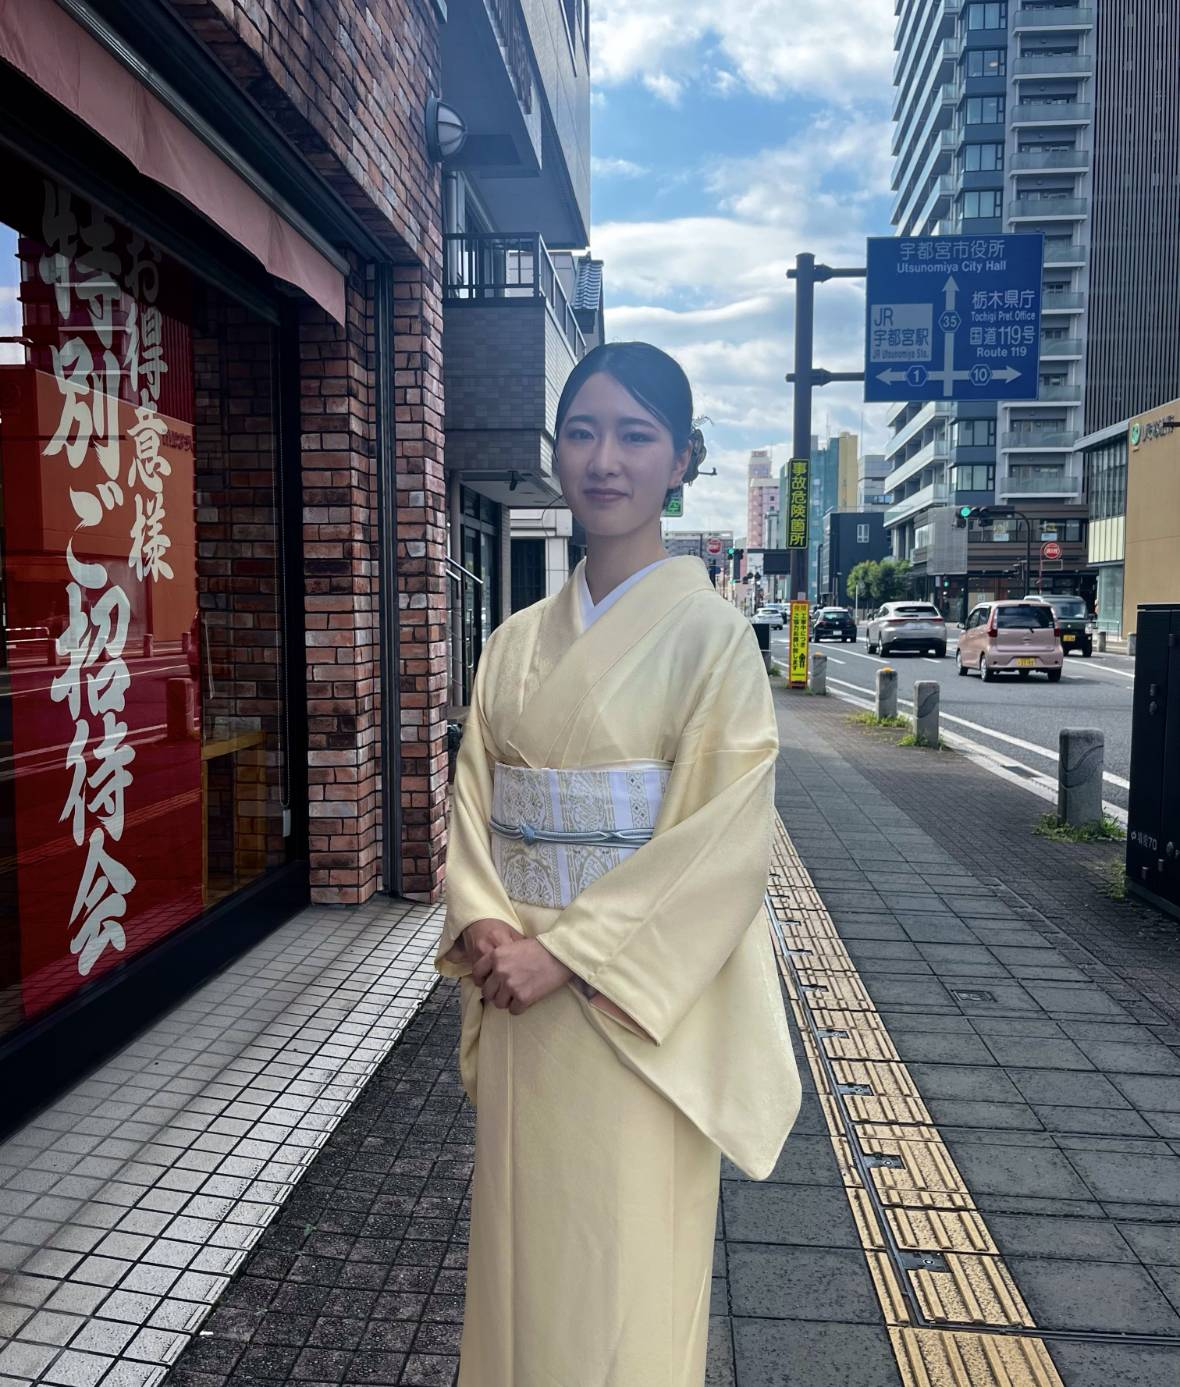
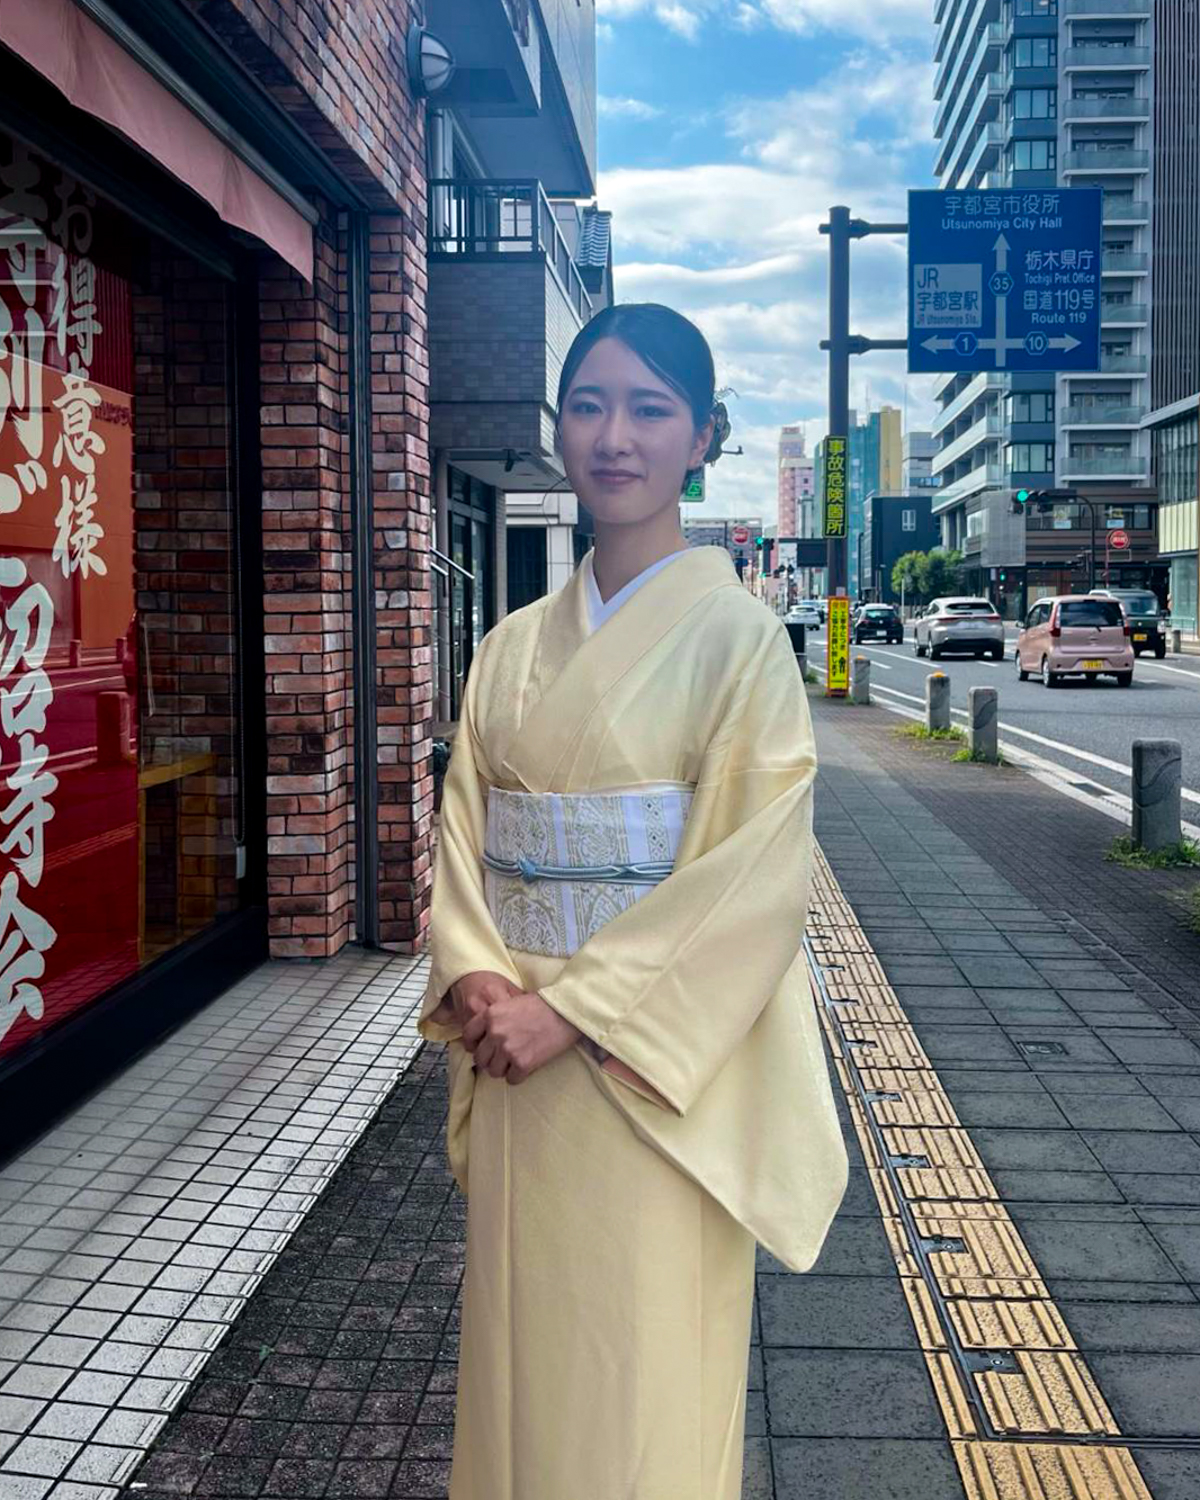
サイト写真を修正済み画像へ差し替え

diff --git a/index.html b/index.html
@@ -95,7 +95,7 @@
     <section id="top" class="hero-section relative h-screen min-h-[600px] flex items-center justify-center overflow-hidden">
         <!-- Background Image -->
         <div class="absolute inset-0 z-0">
-            <img src="images/hero.jpg"
+            <img src="images/hero.jpg?v=260619photo"
                  alt="着物姿で楽しむ寺﨑きもの着付け教室の生徒たち" class="w-full h-full object-cover opacity-80">
             <div class="absolute inset-0 hero-gradient"></div>
             <!-- 和風装飾 -->
@@ -205,7 +205,7 @@
                 <div class="flex flex-col md:flex-row">
                     <!-- Photo Column -->
                     <div class="md:w-5/12 relative h-96 md:h-auto">
-                        <img src="images/teacher-main.jpg"
+                        <img src="images/teacher-main.jpg?v=260619photo"
                              alt="寺﨑今日子先生"
                              class="absolute inset-0 w-full h-full object-cover object-top">
                     </div>
@@ -288,7 +288,7 @@
                 <div class="flex flex-col md:flex-row">
                     <!-- Photo Column -->
                     <div class="md:w-4/12 relative h-80 md:h-auto">
-                        <img src="images/teacher-asuka.jpg"
+                        <img src="images/teacher-asuka.jpg?v=260619photo"
                              alt="明日香先生"
                              class="absolute inset-0 w-full h-full object-cover object-top">
                     </div>
@@ -484,7 +484,7 @@
                     <!-- Image Column -->
                     <div class="order-2 md:order-1">
                         <div class="aspect-[4/3] rounded-lg overflow-hidden">
-                            <img src="images/odekake.jpg" alt="着物でお出かけ会の様子" class="w-full h-full object-cover">
+                            <img src="images/odekake.jpg?v=260619photo" alt="着物でお出かけ会の様子" class="w-full h-full object-cover">
                         </div>
                     </div>
                     
@@ -586,22 +586,22 @@
             
             <div class="grid grid-cols-2 md:grid-cols-3 lg:grid-cols-6 gap-4 max-w-6xl mx-auto">
                 <div class="aspect-[4/5] relative overflow-hidden group cursor-pointer rounded-lg">
-                    <img src="images/collection-1.jpg" alt="赤い着物の着付けコレクション" loading="lazy" class="w-full h-full object-cover group-hover:scale-105 transition-transform duration-300">
+                    <img src="images/collection-1.jpg?v=260619photo" alt="赤い着物の着付けコレクション" loading="lazy" class="w-full h-full object-cover group-hover:scale-105 transition-transform duration-300">
                 </div>
                 <div class="aspect-[4/5] relative overflow-hidden group cursor-pointer rounded-lg">
-                    <img src="images/collection-2.jpg" alt="淡い色の着物の着付けコレクション" loading="lazy" class="w-full h-full object-cover group-hover:scale-105 transition-transform duration-300">
+                    <img src="images/collection-2.jpg?v=260619photo" alt="淡い色の着物の着付けコレクション" loading="lazy" class="w-full h-full object-cover group-hover:scale-105 transition-transform duration-300">
                 </div>
                 <div class="aspect-[4/5] relative overflow-hidden group cursor-pointer rounded-lg">
-                    <img src="images/collection-3.jpg" alt="帯結びが見える着付けコレクション" loading="lazy" class="w-full h-full object-cover group-hover:scale-105 transition-transform duration-300">
+                    <img src="images/collection-3.jpg?v=260619photo" alt="帯結びが見える着付けコレクション" loading="lazy" class="w-full h-full object-cover group-hover:scale-105 transition-transform duration-300">
                 </div>
                 <div class="aspect-[4/5] relative overflow-hidden group cursor-pointer rounded-lg">
-                    <img src="images/collection-4.jpg" alt="華やかな着物姿のコレクション" loading="lazy" class="w-full h-full object-cover group-hover:scale-105 transition-transform duration-300">
+                    <img src="images/collection-4.jpg?v=260619photo" alt="華やかな着物姿のコレクション" loading="lazy" class="w-full h-full object-cover group-hover:scale-105 transition-transform duration-300">
                 </div>
                 <div class="aspect-[4/5] relative overflow-hidden group cursor-pointer rounded-lg">
-                    <img src="images/collection-5.jpg" alt="着付け後の立ち姿コレクション" loading="lazy" class="w-full h-full object-cover group-hover:scale-105 transition-transform duration-300">
+                    <img src="images/collection-5.jpg?v=260619photo" alt="着付け後の立ち姿コレクション" loading="lazy" class="w-full h-full object-cover group-hover:scale-105 transition-transform duration-300">
                 </div>
                 <div class="aspect-[4/5] relative overflow-hidden group cursor-pointer rounded-lg">
-                    <img src="images/collection-6.jpg" alt="きもの姿の集合コレクション" loading="lazy" class="w-full h-full object-cover group-hover:scale-105 transition-transform duration-300">
+                    <img src="images/collection-6.jpg?v=260619photo" alt="きもの姿の集合コレクション" loading="lazy" class="w-full h-full object-cover group-hover:scale-105 transition-transform duration-300">
                 </div>
             </div>
         </div>
@@ -637,28 +637,28 @@
             
             <div class="grid grid-cols-2 md:grid-cols-4 gap-2 max-w-4xl mx-auto">
                 <a href="https://www.instagram.com/kyoko_kimono_time/" target="_blank" rel="noopener noreferrer" class="aspect-square relative overflow-hidden group cursor-pointer">
-                    <img src="images/insta-1.jpg" alt="Instagram投稿写真 1" loading="lazy" class="w-full h-full object-cover group-hover:scale-105 transition-transform duration-300">
+                    <img src="images/insta-1.jpg?v=260619photo" alt="Instagram投稿写真 1" loading="lazy" class="w-full h-full object-cover group-hover:scale-105 transition-transform duration-300">
                 </a>
                 <a href="https://www.instagram.com/kyoko_kimono_time/" target="_blank" rel="noopener noreferrer" class="aspect-square relative overflow-hidden group cursor-pointer">
-                    <img src="images/insta-2.jpg" alt="Instagram投稿写真 2" loading="lazy" class="w-full h-full object-cover group-hover:scale-105 transition-transform duration-300">
+                    <img src="images/insta-2.jpg?v=260619photo" alt="Instagram投稿写真 2" loading="lazy" class="w-full h-full object-cover group-hover:scale-105 transition-transform duration-300">
                 </a>
                 <a href="https://www.instagram.com/kyoko_kimono_time/" target="_blank" rel="noopener noreferrer" class="aspect-square relative overflow-hidden group cursor-pointer">
-                    <img src="images/insta-3.jpg" alt="Instagram投稿写真 3" loading="lazy" class="w-full h-full object-cover group-hover:scale-105 transition-transform duration-300">
+                    <img src="images/insta-3.jpg?v=260619photo" alt="Instagram投稿写真 3" loading="lazy" class="w-full h-full object-cover group-hover:scale-105 transition-transform duration-300">
                 </a>
                 <a href="https://www.instagram.com/kyoko_kimono_time/" target="_blank" rel="noopener noreferrer" class="aspect-square relative overflow-hidden group cursor-pointer">
-                    <img src="images/insta-4.jpg" alt="Instagram投稿写真 4" loading="lazy" class="w-full h-full object-cover group-hover:scale-105 transition-transform duration-300">
+                    <img src="images/insta-4.jpg?v=260619photo" alt="Instagram投稿写真 4" loading="lazy" class="w-full h-full object-cover group-hover:scale-105 transition-transform duration-300">
                 </a>
                 <a href="https://www.instagram.com/kyoko_kimono_time/" target="_blank" rel="noopener noreferrer" class="aspect-square relative overflow-hidden group cursor-pointer">
-                    <img src="images/insta-5.jpg" alt="Instagram投稿写真 5" loading="lazy" class="w-full h-full object-cover group-hover:scale-105 transition-transform duration-300">
+                    <img src="images/insta-5.jpg?v=260619photo" alt="Instagram投稿写真 5" loading="lazy" class="w-full h-full object-cover group-hover:scale-105 transition-transform duration-300">
                 </a>
                 <a href="https://www.instagram.com/kyoko_kimono_time/" target="_blank" rel="noopener noreferrer" class="aspect-square relative overflow-hidden group cursor-pointer">
-                    <img src="images/insta-6.jpg" alt="Instagram投稿写真 6" loading="lazy" class="w-full h-full object-cover group-hover:scale-105 transition-transform duration-300">
+                    <img src="images/insta-6.jpg?v=260619photo" alt="Instagram投稿写真 6" loading="lazy" class="w-full h-full object-cover group-hover:scale-105 transition-transform duration-300">
                 </a>
                 <a href="https://www.instagram.com/kyoko_kimono_time/" target="_blank" rel="noopener noreferrer" class="aspect-square relative overflow-hidden group cursor-pointer">
-                    <img src="images/insta-7.jpg" alt="Instagram投稿写真 7" loading="lazy" class="w-full h-full object-cover group-hover:scale-105 transition-transform duration-300">
+                    <img src="images/insta-7.jpg?v=260619photo" alt="Instagram投稿写真 7" loading="lazy" class="w-full h-full object-cover group-hover:scale-105 transition-transform duration-300">
                 </a>
                 <a href="https://www.instagram.com/kyoko_kimono_time/" target="_blank" rel="noopener noreferrer" class="aspect-square relative overflow-hidden group cursor-pointer">
-                    <img src="images/insta-8.jpg" alt="Instagram投稿写真 8" loading="lazy" class="w-full h-full object-cover group-hover:scale-105 transition-transform duration-300">
+                    <img src="images/insta-8.jpg?v=260619photo" alt="Instagram投稿写真 8" loading="lazy" class="w-full h-full object-cover group-hover:scale-105 transition-transform duration-300">
                 </a>
             </div>
         </div>
